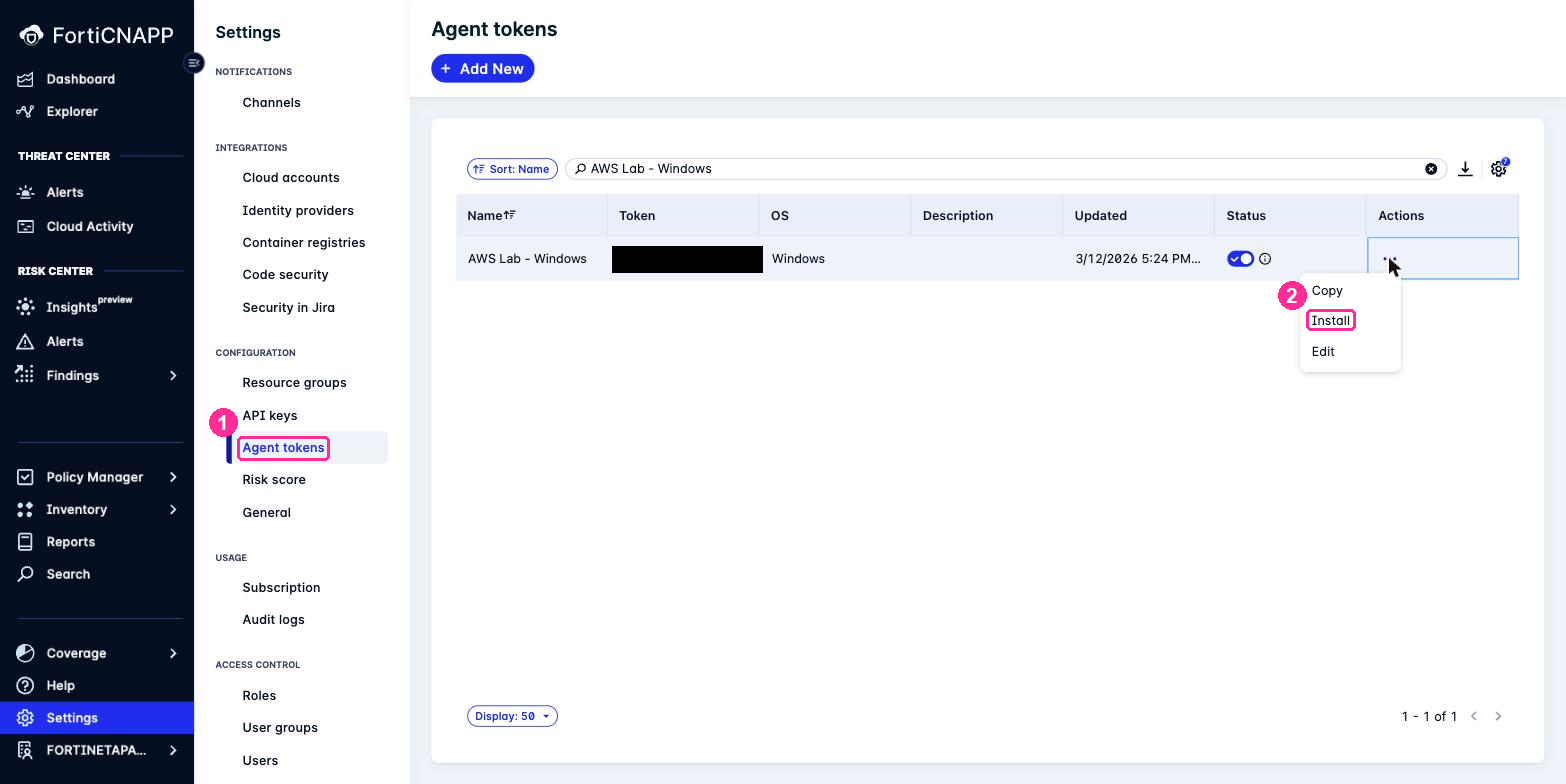
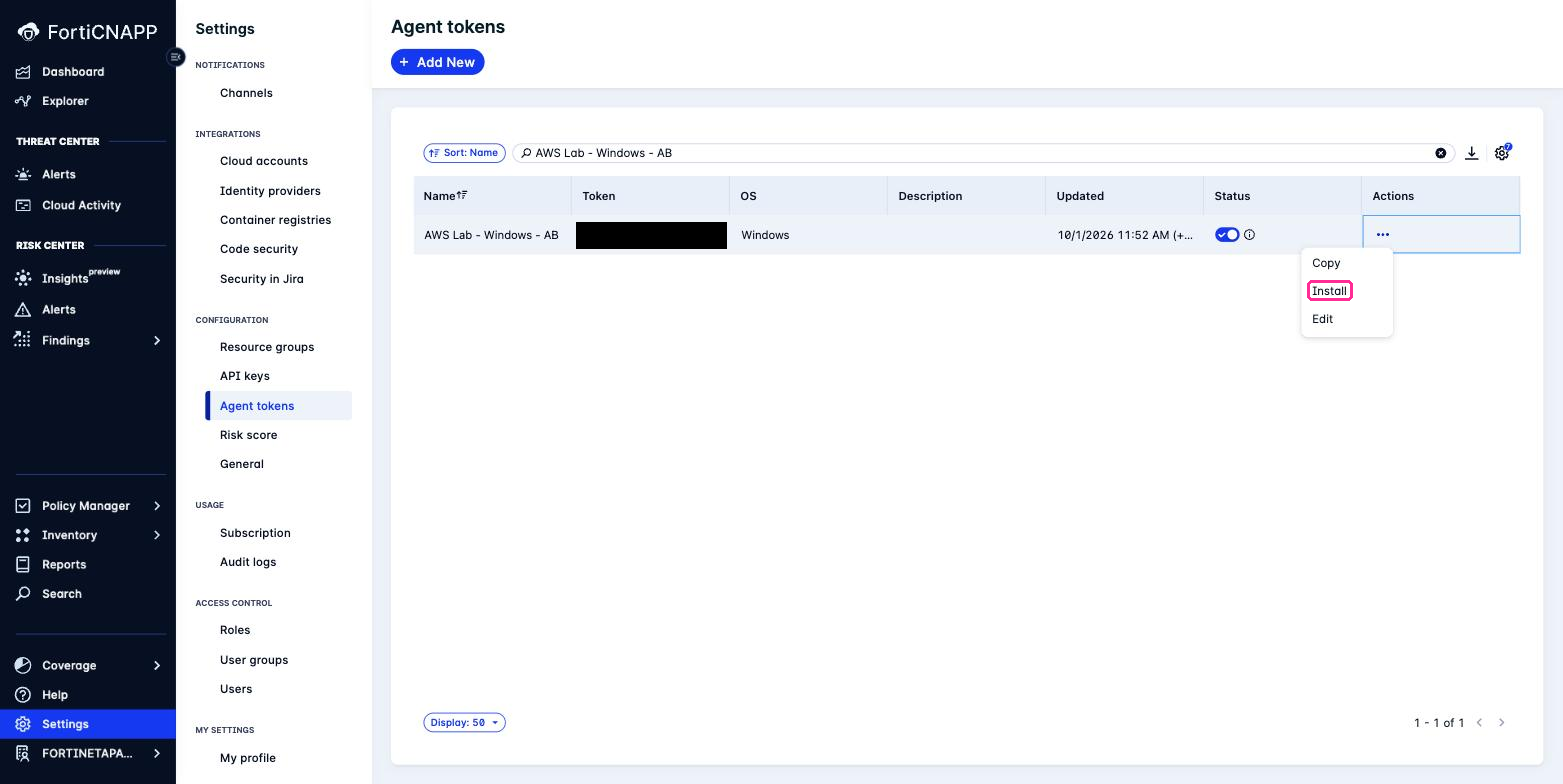
Make the Windows install optional and keep the token step for everyone
Lab 6 now has two parts. Part 1 creates a Windows agent token and builds the
install command, which every student can do from the console. Part 2, the RDP
install on an EC2 instance, is optional. The README lab table and the
prerequisites say the RDP client is needed only for Part 2, and Lab 5's
hand-off line no longer promises everyone a Windows install.

Recaptured the token actions and install panel screenshots, and added one for
creating the token.

diff --git a/lab-06/README.md b/lab-06/README.md
@@ -3,7 +3,7 @@
 ## Objectives
 
 Same agent, same result, different road to get there. Almost every estate you will meet
-runs both, so it is worth doing Windows once rather than assuming it follows.
+runs both, so it is worth seeing Windows once rather than assuming it follows.
 
 | | Linux, Lab 5 | Windows, this lab |
 |---|---|---|
@@ -13,14 +13,110 @@ runs both, so it is worth doing Windows once rather than assuming it follows.
 | You need | A URL | Two URLs and an access token |
 | Runs as | `datacollector` | The `LWDataCollector` service |
 
+The lab has two parts:
+
+- **Part 1, everyone.** Create your own Windows agent token and build the install command
+  from it. In Lab 5 you used a token someone made for you. This time you make it.
+- **Part 2, optional.** Launch a Windows instance and run that command over RDP. RDP is
+  slow from a room full of laptops, so you can read this part and skip to Lab 7.
+
 ## Prerequisites
 
 - Completed [Lab 5](../lab-05/README.md)
-- AWS account with permission to launch EC2 instances
-- An RDP client: Remote Desktop Connection on Windows, **Windows App** on a Mac
 - FortiCNAPP console access, tenant **FORTINETAPACDEMO**
+- For Part 2 only:
+  - AWS account with permission to launch EC2 instances
+  - An RDP client: Remote Desktop Connection on Windows, **Windows App** on a Mac
 
-## Lab steps
+## Part 1: Create a Token and Build the Install Command
+
+### Step 1: Create a Windows Agent Token
+
+An agent token is the credential that joins an agent to this tenant. Anyone who holds it
+can register a host here, so treat it as a secret.
+
+1. In the FortiCNAPP console, confirm the tenant reads **FORTINETAPACDEMO**.
+2. Go to **Settings** > **Configuration** > **Agent tokens**, and click **Add New**.
+3. **Name**: `AWS Lab - Windows - <your initials>`
+4. **Operating System**: select **Windows**. Linux is selected by default.
+5. Click **Save**.
+
+![Create access token dialog with the name filled in, Windows selected, and Save](images/forticnapp-agent-token-create.png)
+
+> [!IMPORTANT]
+> **Put your initials in the name.** Everyone in the room makes a token in this step, on a
+> tenant that already holds dozens. Without your initials you cannot tell yours apart.
+
+**Checkpoint:** the console shows **Token is created**, and your token is in the list with
+OS **Windows**.
+
+### Step 2: Open the Install Panel
+
+1. Type your token's name in the search box.
+2. Click the **Actions** ellipsis on your row, then **Install**.
+
+![Agent tokens filtered to one Windows token, with the Actions menu open on Install](images/forticnapp-agent-token-actions.png)
+
+### Step 3: Collect the Three Install Values
+
+The Windows panel offers different packages to the Linux one. You need three things from
+it:
+
+![Install panel showing Lacework Powershell Script, MSI Package, ARM Template, Terraform script for Azure and Packer for AWS](images/forticnapp-agent-install-url.png)
+
+| Take this | From | Used as |
+|---|---|---|
+| Script URL | **Install** tab. **Lacework Powershell Script**, already expanded. **Copy URL** | what you download |
+| MSI URL | **Install** tab. Expand **MSI Package**, then its **Copy URL** | `-MSIURL` |
+| Access token | **Detail** tab, the **Token** field | `-AccessToken` |
+
+> **The package sections are an accordion.** Expanding **MSI Package** collapses
+> **Lacework Powershell Script**. Take the script URL first, paste it somewhere, then come
+> back for the MSI one.
+
+Paste all three into a text file on your own machine, each one labelled.
+
+**Checkpoint:** three values, each one labelled so you know which is which.
+
+### Step 4: Build the Install Command
+
+The install runs in two parts. The first downloads and unpacks the script bundle:
+
+```powershell
+Invoke-WebRequest -Uri "<script-url>" -OutFile "install.zip"
+Expand-Archive -Path "install.zip" -DestinationPath "install" -Force
+cd install\signed-scripts
+```
+
+The second runs the installer with your token and the MSI URL:
+
+```powershell
+.\Install-LWDataCollector.ps1 `
+  -AccessToken "<access-token>" `
+  -ServerURL "https://partner-demo.lacework.net" `
+  -MSIURL "<msi-url>"
+```
+
+Copy both blocks into your text file and replace each placeholder with its value from
+Step 3.
+
+> **These URLs are easily swapped.** The script URL ends in `.zip`, the MSI URL in `.msi`.
+> Give the installer them the wrong way round and it fails on a download error rather than
+> telling you they are reversed.
+
+The script pulls the MSI, installs it, and registers the agent against your token. Nothing
+to configure afterwards.
+
+**Checkpoint:** both blocks are in your text file, with no angle brackets left.
+
+## Part 2 (Optional): Install on a Windows Instance
+
+Part 2 launches a Windows instance and runs your command on it over RDP. Windows boots
+slowly, and RDP is slow on shared WiFi.
+
+**To skip it**, read the steps below so you know how the install goes, especially
+[Look at what it is logging](#look-at-what-it-is-logging). Then go to
+[Lab 7](../lab-07/README.md).
 
 ### Step 1: Create Windows EC2 Instance
 
@@ -46,7 +142,7 @@ Same wizard as Lab 5. What differs: the image, and the key pair.
 
    - Click **Create new key pair**
    - Name it `forticnapp-windows-key-<your initials>`, type **RSA**, format **.pem**
-   - Click **Create key pair**. The `.pem` file downloads. Keep it, you need it in Step 3.
+   - Click **Create key pair**. The `.pem` file downloads. Keep it, you need it in Step 2.
 
 > [!IMPORTANT]
 > **Put your initials in the name.** Key pair names are unique per region, so if anyone has
@@ -111,67 +207,15 @@ Work down this list. The first two are far more common than anything else.
 
     Without **Administrator**, the installer fails partway and leaves no useful message.
 
-### Step 3: Get the Install Details from FortiCNAPP
+11. Open **Notepad** on the Windows desktop and paste in your text file from Part 1. RDP
+    copy and paste is unreliable, so move everything across in one go, not value by value.
 
-Do this in your **own** browser, not inside the RDP session.
+### Step 3: Install the Agent
 
-1. In the FortiCNAPP console, confirm the tenant reads **FORTINETAPACDEMO**.
-2. Go to **Settings** > **Configuration** > **Agent tokens**.
-3. Search `AWS Lab - Windows`. Take care to pick the Windows token, not the Linux one from
-   Lab 5.
-4. Click the **Actions** ellipsis on that row, then **Install**.
+In **PowerShell as Administrator**, run the two blocks you built in Part 1, Step 4. Run the
+download block first, then the installer.
 
-![Agent tokens filtered to AWS Lab - Windows, with the Actions menu open on Install](images/forticnapp-agent-token-actions.png)
-
-5. The Windows panel offers different packages to the Linux one. You need three things from
-   it:
-
-![Install panel showing Lacework Powershell Script, MSI Package, ARM Template, Terraform script for Azure and Packer for AWS](images/forticnapp-agent-install-url.png)
-
-| Take this | From | Used as |
-|---|---|---|
-| Script URL | **Install** tab. **Lacework Powershell Script**, already expanded. **Copy URL** | what you download |
-| MSI URL | **Install** tab. Expand **MSI Package**, then its **Copy URL** | `-MSIURL` |
-| Access token | **Detail** tab, the **Token** field | `-AccessToken` |
-
-> **The package sections are an accordion.** Expanding **MSI Package** collapses
-> **Lacework Powershell Script**. Take the script URL first, paste it somewhere, then come
-> back for the MSI one.
-
-Paste all three somewhere you can get at them from inside the RDP session. RDP copy and
-paste is unreliable, so a text file on the Windows desktop is easiest.
-
-**Checkpoint:** three values, each one labelled so you know which is which.
-
-### Step 4: Install the Agent
-
-In the RDP session, in **PowerShell as Administrator**.
-
-Download and unpack the script bundle:
-
-```powershell
-Invoke-WebRequest -Uri "<script-url>" -OutFile "install.zip"
-Expand-Archive -Path "install.zip" -DestinationPath "install" -Force
-cd install\signed-scripts
-```
-
-Then run it, substituting the access token and MSI URL from Step 3:
-
-```powershell
-.\Install-LWDataCollector.ps1 `
-  -AccessToken "<access-token>" `
-  -ServerURL "https://partner-demo.lacework.net" `
-  -MSIURL "<msi-url>"
-```
-
-The script pulls the MSI, installs it, and registers the agent against your token. Nothing
-to configure afterwards.
-
-> **These URLs are easily swapped.** The script URL ends in `.zip`, the MSI URL in `.msi`. Give
-> the installer them the wrong way round and it fails on a download error rather than
-> telling you they are reversed.
-
-### Step 5: Verify on the Host
+### Step 4: Verify on the Host
 
 The agent runs as a Windows service, so ask Windows:
 
@@ -221,7 +265,7 @@ Plenty of lines say `level=error` and are routine:
 - `could not open process handle for further details ... ErrorCode = 5`, which is Windows
   refusing access to protected system processes
 
-### Step 6: Verify in FortiCNAPP
+### Step 5: Verify in FortiCNAPP
 
 > **The agent reports hourly**, so it will not appear straight away. Carry on and come back.
 
@@ -239,10 +283,13 @@ Both your Linux and Windows hosts should be listed there by the end of the sessi
 
 The same agent, reached a harder way.
 
-A Windows estate is where agent rollout actually stalls,
-and almost never because of the agent: it stalls on RDP being blocked, on a lost key pair,
-on an installer run without Administrator. You have now hit those in a lab where it costs
-nothing.
+You made the token that joins an agent to a tenant, and turned it into an install command.
+That FortiCNAPP side is where every Windows install starts.
+
+A Windows rollout rarely stalls on the agent itself. It stalls on RDP being blocked, on a
+lost key pair, on an installer run without Administrator. If you built the instance, you
+have now hit those in a lab where it costs nothing. If you skipped it, those are the three
+to plan for.
 
 From here FortiCNAPP treats both hosts identically. The next labs move off hosts entirely
 and look at the code that builds them.

diff --git a/README.md b/README.md
@@ -54,7 +54,7 @@ flowchart LR
 | [3](lab-03/README.md) | Onboard the account with the wizard | Configuration and agentless in one pass |
 | [4](lab-04/README.md) | Add CloudTrail with CloudFormation | Threat detection, by a method the wizard cannot use here |
 | [5](lab-05/README.md) | Install the Linux agent | Continuous visibility, not periodic snapshots |
-| [6](lab-06/README.md) | Install the Windows agent | Same idea, different OS |
+| [6](lab-06/README.md) | Create a Windows agent token, then optionally install the agent | Same idea, different OS |
 | [7](lab-07/README.md) | Install the Lacework CLI | Needed by Labs 8 and 9 |
 | [8](lab-08/README.md) | Scan Terraform for misconfigurations | Catch it before it reaches AWS |
 | [9](lab-09/README.md) | Scan an app for vulnerable dependencies | Catch them before they reach AWS |
@@ -82,7 +82,7 @@ Take these to onboard through a pipeline rather than a wizard.
 - An AWS account with administrator access
 - FortiCNAPP console access, tenant **FORTINETAPACDEMO**
 - A browser
-- An RDP client for Lab 6: Remote Desktop Connection on Windows, **Windows App** on a Mac
+- An RDP client, for the optional part of Lab 6: Remote Desktop Connection on Windows, **Windows App** on a Mac
 
 ## Resources
 

diff --git a/lab-05/README.md b/lab-05/README.md
@@ -237,7 +237,7 @@ notices the package being exploited: a process that has never run before, a conn
 somewhere this host has never talked to, a login at the wrong hour. You cannot alert on
 behaviour you are not watching.
 
-The Windows install differs enough to be worth doing once.
+The Windows install differs enough to be worth seeing once.
 
 ---
 
